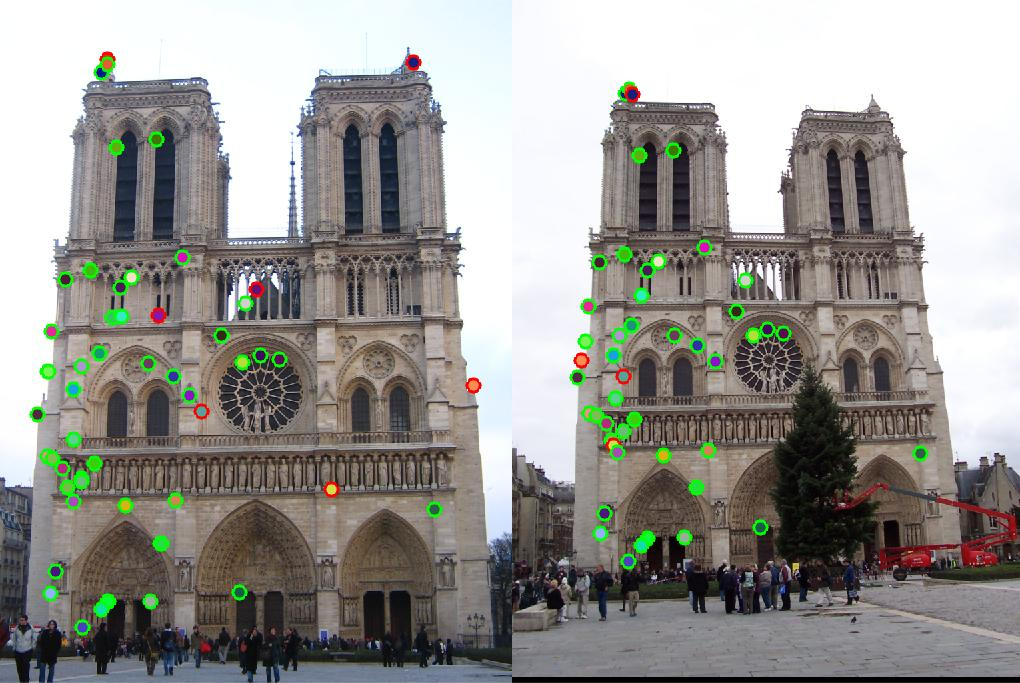
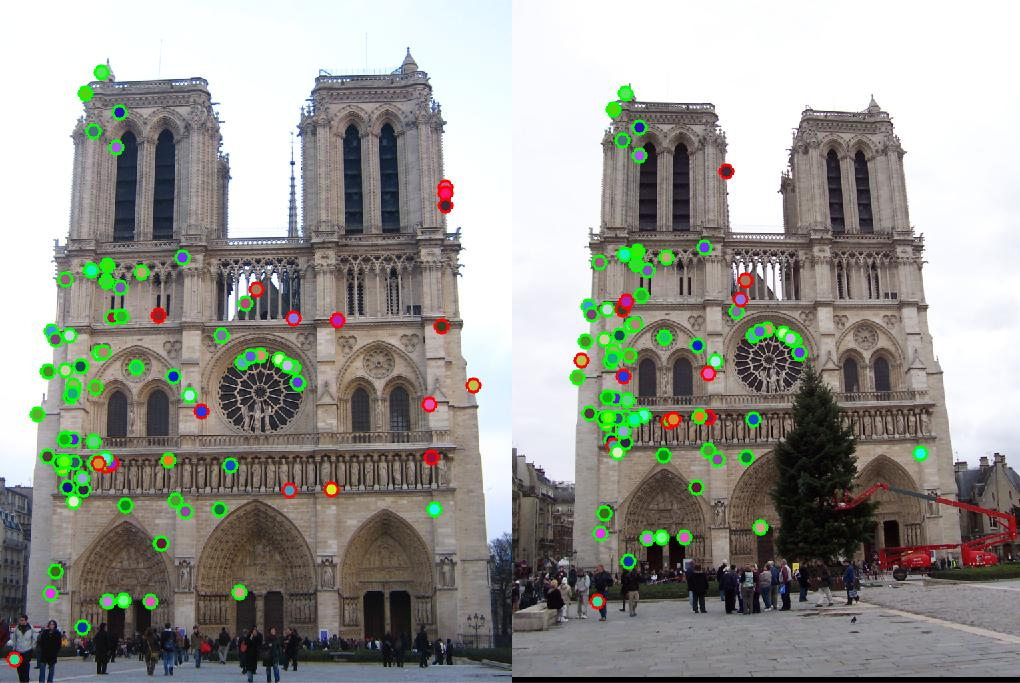
yea, compromised

diff --git a/html/index.html b/html/index.html
@@ -183,23 +183,23 @@ The first one is using sliding window to restrict the local region and to find t
 
 
 <h3>Decision & Tuning</h3>
-<p> 	The tuning of the parameters was all finished with Norte Dame images pair. In the first hand result, the first 100 confident points, the good match rate is not satisfied (72 good match out of 100 match pair). but there are acutally 346 good match pairs points in all the match. Therefore, it is reasonable to improve the evaluation of confidence. Therefore, the third closet point was also included. The ratio was calculated as 
-2 x least distance / (second least distance + third least distance). After the modification, the good match rate of first 100 confident points raised from 72% to 80%</p>
+<p> 	The tuning of the parameters was all finished with Norte Dame images pair. In the first hand result, the first 100 confident points, the good match rate is not satisfied (66 good match out of 100 match pair). but there are acutally 346 good match pairs points in all the match. Therefore, it is reasonable to improve the evaluation of confidence. Therefore, the third closet point was also included. The ratio was calculated as 
+2 x least distance / (second least distance + third least distance). After the modification, the good match rate of first 100 confident points raised from 66% to 72%</p>
 
-<p> 	The algorithm at first can only process grayscale images. The total amount of interested points was limited because it only found points in one layer. At first, the thershold of connect components method was lower to include more point. However, the points we received from this modification did not acutally include useful features. To increase the amount of interested points, the algorithm was modified to calculate colored version of image. All the interested points in three layers of image are all included. Also, in the features extraction, the gradients of all three layers are all included. The calculation was longer but the the match rate increased from 80% to 91%. </p>
+<p> 	The algorithm at first can only process grayscale images. The total amount of interested points was limited because it only found points in one layer. At first, the thershold of connect components method was lower to include more point. However, the points we received from this modification did not acutally include useful features. To increase the amount of interested points, the algorithm was modified to calculate colored version of image. All the interested points in three layers of image are all included. Also, in the features extraction, the gradients of all three layers are all included. The calculation was longer but the the match rate increased from 72% to 80%. </p>
 
 <h3>Result</h3>
 <div style="float: center; padding: 20px">
 <img src="NotreDame_eval_color.jpg" />
 <center><p style="font-size: 14px">Match pairs of Norte Dame images pair</p></center>
 </div>
-<p> The first 100 match pairs was evaluated for the Norte Dame images pair. There are 91 good matches out of 100 matches. The points with green cricumferen are good matches. The good matches are more concentrated in the left side of the image.</p>
+<p> The first 100 match pairs was evaluated for the Norte Dame images pair. There are 80 good matches out of 100 matches. The points with green cricumferen are good matches. The good matches are more concentrated in the left side of the image.</p>
 
 <div style="float: left; padding: 20px">
 <img src="Mount_RushMore_eval_color_200.jpg" />
 <center><p style="font-size: 14px">Match pairs of Mount Rushmore images pair</p></center>
 </div>
-<p> The first 200 match pairs was evaluated for the Mount Rushmore images pair. There are 185 good matches out of 200 matches. The points with green cricumferen are good matches. The good matches are more concentrated in the left side of the image.</p>
+<p> The first 100 match pairs was evaluated for the Mount Rushmore images pair. There are 92 good matches out of 100 matches. The points with green cricumferen are good matches. The good matches are more concentrated in the left side of the image.</p>
 
 <div style="float: left; padding: 20px">
 <img src="eval_color_EpiscopalGaudi.jpg" />
